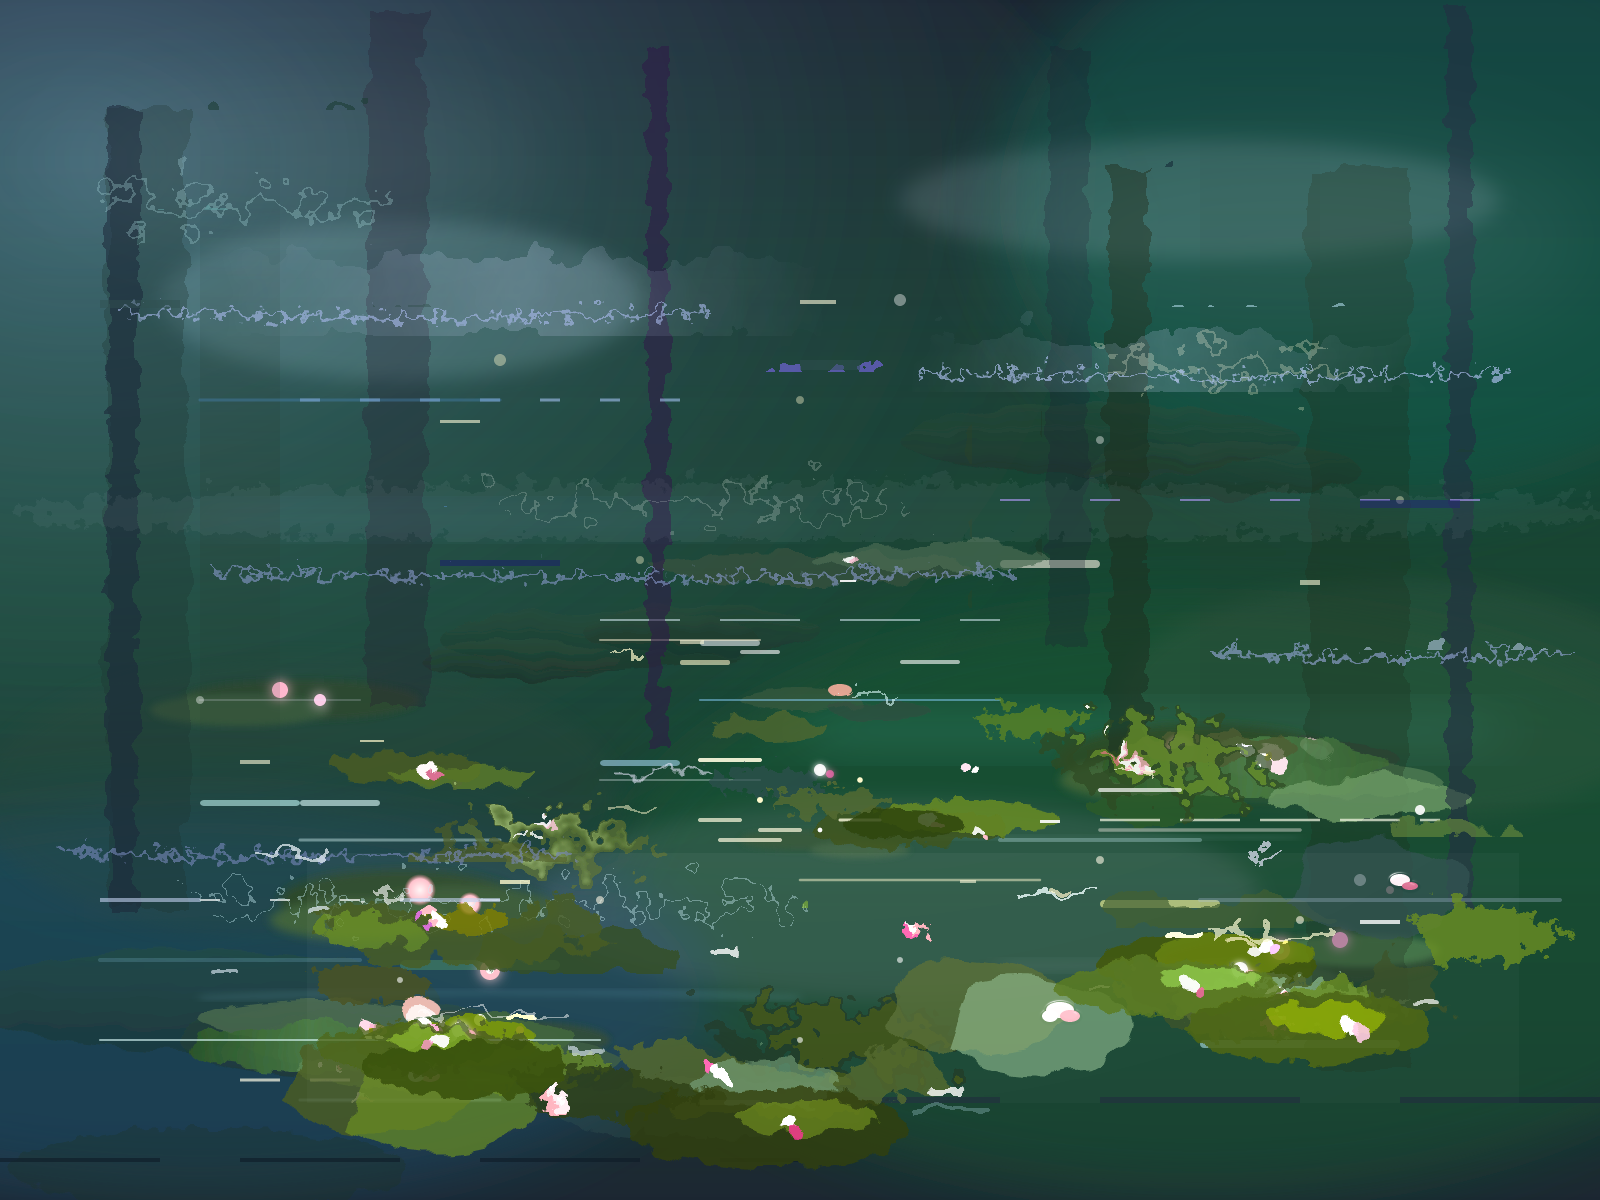
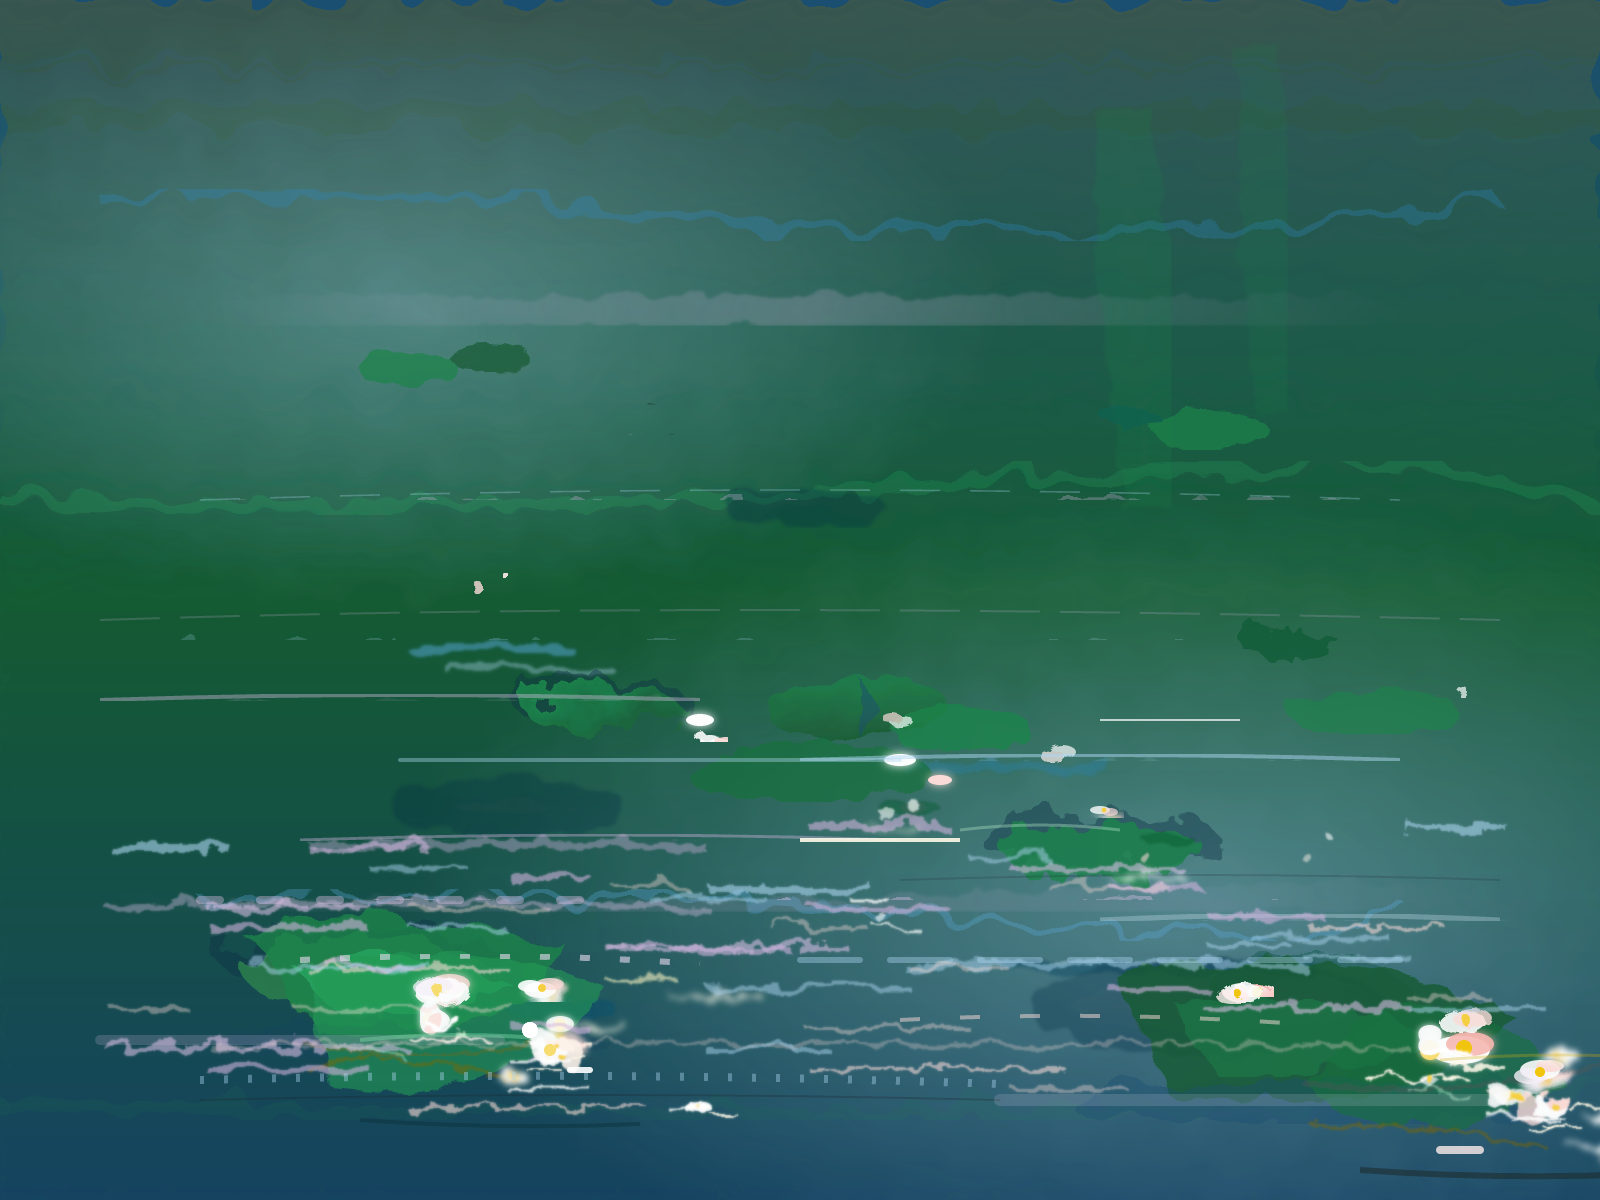
Consolidate prompt assembly, disable Gemini default thinking, add iteration nudge
- Move shared prompt formatting (notes, context lines) into DrawingRequest
  helper methods, removing duplication between Anthropic and Gemini providers
- Explicitly disable thinking for Gemini drawing iterations (gemini-3 uses
  MINIMAL thinking level, gemini-2.5 uses thinking_budget=0)
- Add "iterations remaining" count and self-repetition nudge to each
  drawing iteration's context
- Update lilies example image

diff --git a/src/monet/providers/anthropic.py b/src/monet/providers/anthropic.py
@@ -32,11 +32,13 @@ class AnthropicProvider(LLMProvider):
         user_parts: list[dict] = []
 
         # 1. Stable text: art prompt (prefix-cacheable, breakpoint 2 of 4)
-        user_parts.append({
-            "type": "text",
-            "text": f"Art prompt: {request.original_prompt}",
-            "cache_control": {"type": "ephemeral"},
-        })
+        user_parts.append(
+            {
+                "type": "text",
+                "text": f"Art prompt: {request.original_prompt}",
+                "cache_control": {"type": "ephemeral"},
+            }
+        )
 
         # 2. Notes history — each note as its own content block for incremental caching.
         #    Anthropic allows max 4 cache breakpoints. We use:
@@ -45,13 +47,11 @@ class AnthropicProvider(LLMProvider):
         #      3. Second-to-last note (matches previous call's last-note cache → read)
         #      4. Last note (creates cache for next call)
         if request.notes_history:
+            note_texts = request.format_notes()
             note_blocks: list[dict] = []
-            for i, note in enumerate(request.notes_history):
+            for i, text in enumerate(note_texts):
                 prefix = "Your notes from previous iterations:\n\n" if i == 0 else ""
-                note_blocks.append({
-                    "type": "text",
-                    "text": f"{prefix}== Iteration {i + 1} notes ==\n{note}",
-                })
+                note_blocks.append({"type": "text", "text": f"{prefix}{text}"})
             # Cache breakpoints on last 2 notes (breakpoints 3-4 of max 4).
             if len(note_blocks) >= 2:
                 note_blocks[-2]["cache_control"] = {"type": "ephemeral"}
@@ -71,12 +71,7 @@ class AnthropicProvider(LLMProvider):
         )
 
         # 4. Current iteration context (changes every iteration)
-        current_lines = [f"Iteration: {request.iteration}", f"Layers: {request.layer_summary}"]
-        if request.iteration_message:
-            current_lines.append(request.iteration_message)
-        elif not request.notes_history:
-            current_lines.append("This is the blank canvas. Begin your artwork.")
-        user_parts.append({"type": "text", "text": "\n".join(current_lines)})
+        user_parts.append({"type": "text", "text": request.format_context_lines()})
 
         # budget_tokens must be strictly less than max_tokens, and both budgets
         # need room — so add them together.
@@ -123,8 +118,7 @@ class AnthropicProvider(LLMProvider):
 
         if thinking_tokens:
             provider_log.append(
-                f"Thinking: ~{thinking_tokens} summary tokens"
-                f" (billed as part of {usage.output_tokens} output tokens)"
+                f"Thinking: ~{thinking_tokens} summary tokens (billed as part of {usage.output_tokens} output tokens)"
             )
 
         return DrawingResponse(

diff --git a/src/monet/providers/gemini.py b/src/monet/providers/gemini.py
@@ -52,9 +52,7 @@ class GeminiProvider(LLMProvider):
 
         # 2. Notes history (grows but prefix is stable — cacheable)
         if request.notes_history:
-            notes_text = "\n\n".join(
-                f"== Iteration {i + 1} notes ==\n{note}" for i, note in enumerate(request.notes_history)
-            )
+            notes_text = "\n\n".join(request.format_notes())
             parts.append(types.Part.from_text(text=f"Your notes from previous iterations:\n\n{notes_text}"))
 
         # 3. Canvas image (changes every iteration — never cached)
@@ -62,12 +60,7 @@ class GeminiProvider(LLMProvider):
         parts.append(types.Part.from_bytes(data=image_bytes, mime_type="image/png"))
 
         # 4. Current iteration context (changes every iteration)
-        current_lines = [f"Iteration: {request.iteration}", f"Layers: {request.layer_summary}"]
-        if request.iteration_message:
-            current_lines.append(request.iteration_message)
-        elif not request.notes_history:
-            current_lines.append("This is the blank canvas. Begin your artwork.")
-        parts.append(types.Part.from_text(text="\n".join(current_lines)))
+        parts.append(types.Part.from_text(text=request.format_context_lines()))
 
         config = types.GenerateContentConfig(
             system_instruction=request.system_prompt,
@@ -78,6 +71,17 @@ class GeminiProvider(LLMProvider):
             config.thinking_config = types.ThinkingConfig(
                 thinking_budget=request.thinking_budget,
             )
+        else:
+            # Gemini 2.5+ models think by default — explicitly disable.
+            # Gemini 3 models don't support thinking_budget=0; use thinking_level instead.
+            if "gemini-3" in self._model:
+                config.thinking_config = types.ThinkingConfig(
+                    thinking_level=types.ThinkingLevel.MINIMAL,
+                )
+            else:
+                config.thinking_config = types.ThinkingConfig(
+                    thinking_budget=0,
+                )
 
         response = self._client.models.generate_content(
             model=self._model,

diff --git a/src/monet/providers/base.py b/src/monet/providers/base.py
@@ -17,6 +17,21 @@ class DrawingRequest:
     thinking_enabled: bool = False
     thinking_budget: int = 4096
 
+    def format_notes(self) -> list[str]:
+        """Return formatted note strings, one per iteration."""
+        return [f"== Iteration {i + 1} notes ==\n{note}" for i, note in enumerate(self.notes_history)]
+
+    def format_context_lines(self) -> str:
+        """Return the current-iteration context text."""
+        lines = [f"Iteration: {self.iteration}", f"Layers: {self.layer_summary}"]
+        if self.iteration_message:
+            lines.append(self.iteration_message)
+        elif not self.notes_history:
+            lines.append("This is the blank canvas. Begin your artwork.")
+        if self.notes_history:
+            lines.append("If your notes are repeating similar ideas, move on to the next stage or set status to done.")
+        return "\n".join(lines)
+
 
 @dataclass
 class DrawingResponse:

diff --git a/src/monet/orchestrator.py b/src/monet/orchestrator.py
@@ -204,6 +204,7 @@ def run_drawing_session(session: DrawingSession, verbose: bool = False) -> Path:
             break
 
         # Build and send request
+        remaining = session.max_iterations - session.iteration
         request = DrawingRequest(
             system_prompt=system_prompt,
             canvas_png_base64=canvas_b64,
@@ -212,6 +213,7 @@ def run_drawing_session(session: DrawingSession, verbose: bool = False) -> Path:
             layer_summary=session.canvas.get_layer_summary(),
             notes_history=list(session.notes_history),
             max_output_tokens=DEFAULT_MAX_OUTPUT_TOKENS,
+            iteration_message=f"Iterations remaining: {remaining}/{session.max_iterations}.",
             thinking_enabled=session.thinking_enabled,
             thinking_budget=session.thinking_budget,
         )
